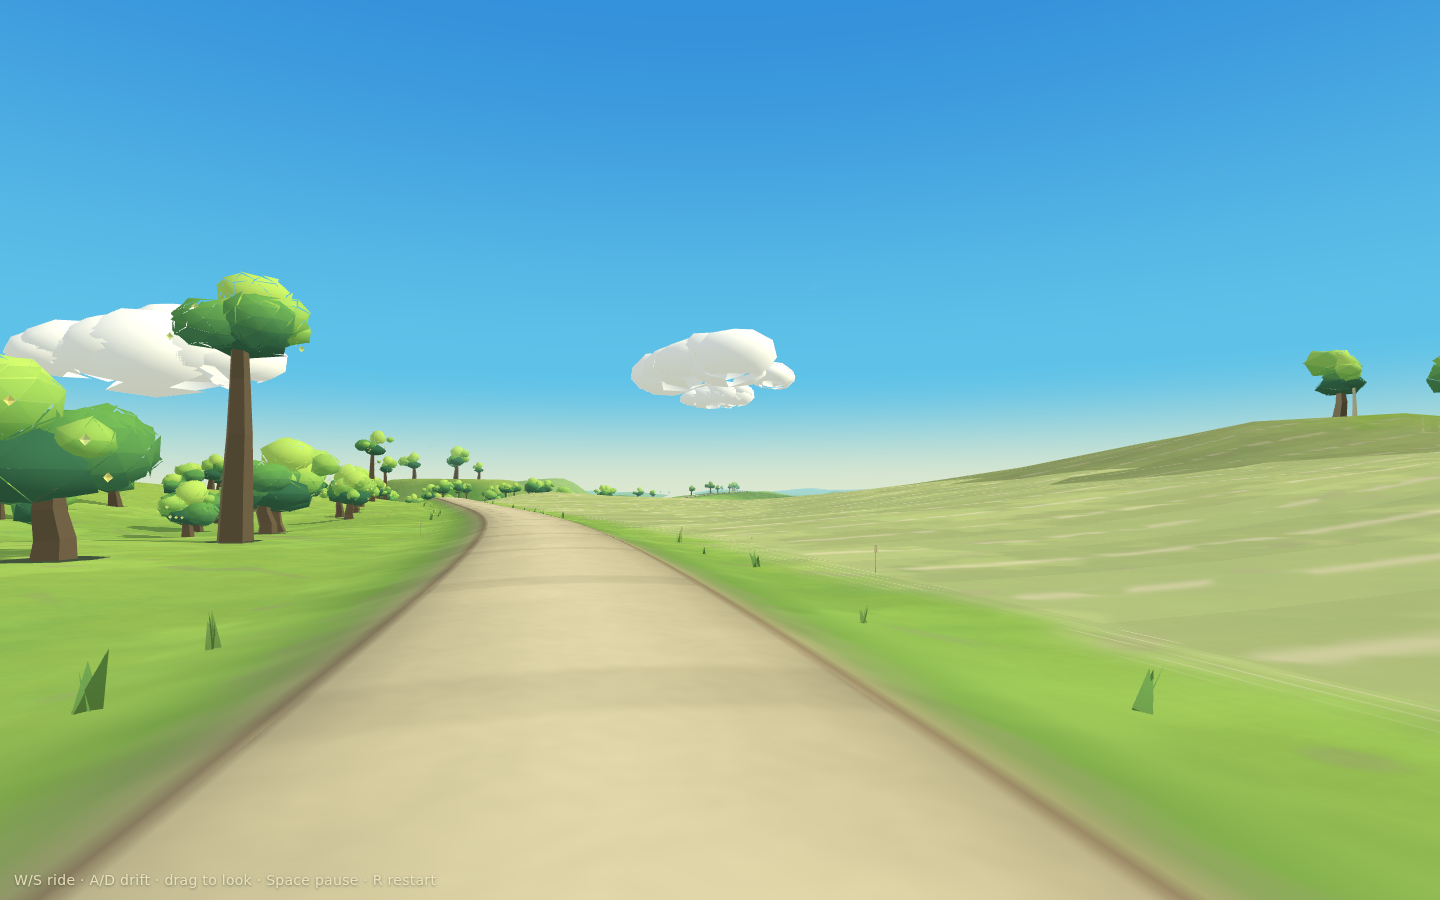
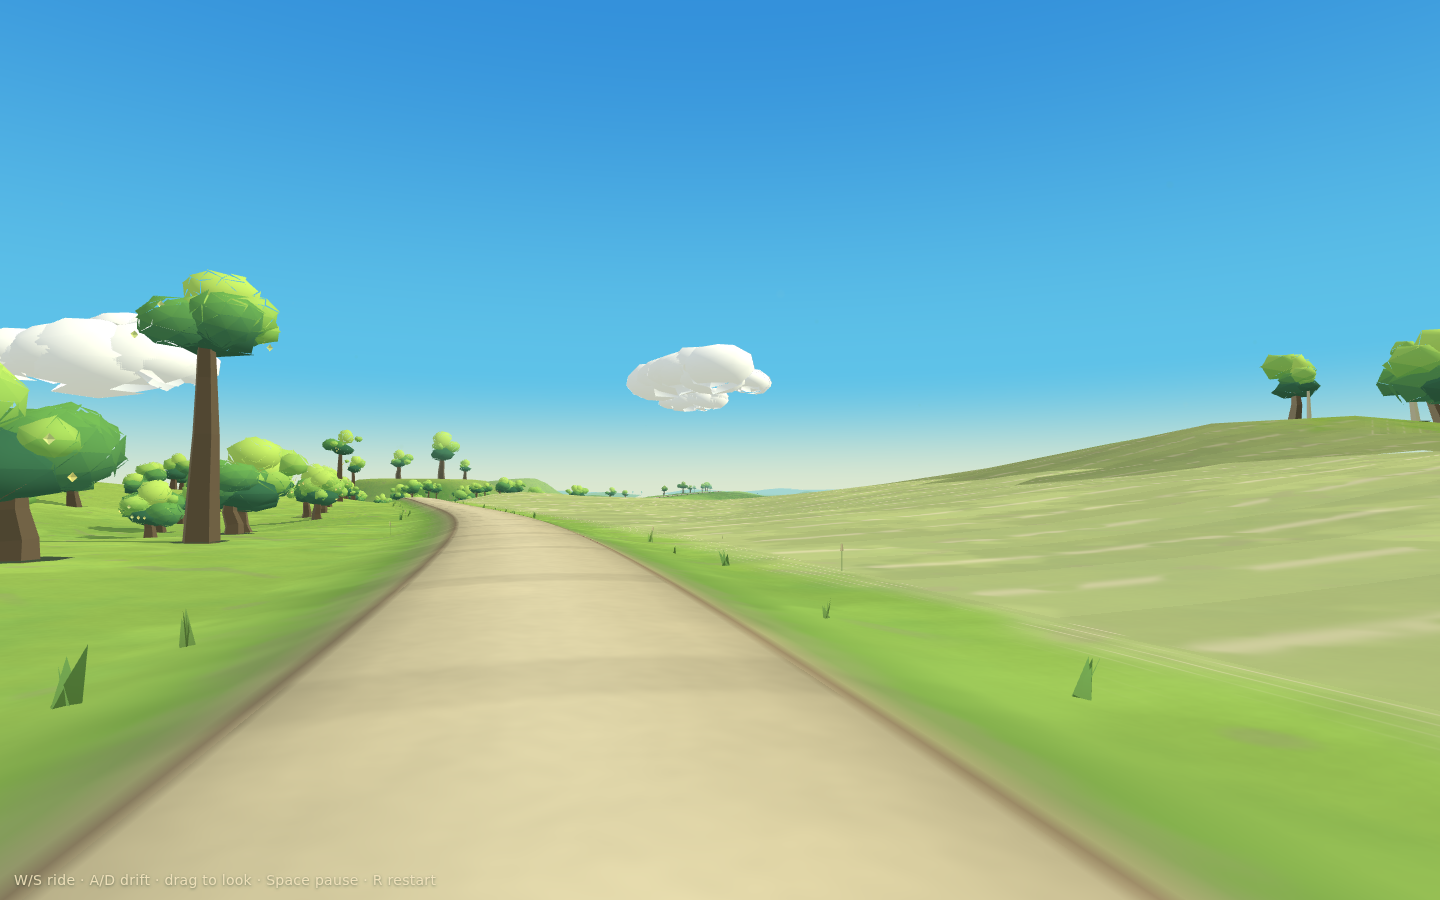
Summerglass Island 01: the sweep includes the reveal, and the crown is theirs
Three findings from the stills review, closed with measurements:

* The budget sweep now covers the bearings the island is composed around,
  not only the forward view: five yaws per station (0, +/-22 deg, +/-43 deg —
  the drag-look range the water-aperture reveal is built on), 108 stations,
  540 poses per tier. The maximum still lands on the FORWARD view at the
  combe climb, on the default seed and on three alternates — so the reveal's
  off-axis peak costs less than the forward corridor it trades away, and the
  bound got stronger without moving: 109,549 standard / 114,208 high against
  120,000. The concern was correct to raise and is now measured rather than
  assumed.
* Cloud bases carry a real shadow again (the keeper's own "one flat shadowed
  base") instead of near-white, and the near band starts farther out — the
  hard-edged white polygon meeting the gate crown in the threshold frame is
  gone with the depth cue restored, not painted over.
* Riding the reveal exposed two last Sisters defects the stills could not
  settle: volunteer trees stood on the dome's own flank (clearance was
  smaller than the dome's visible extent — the whole dome is now theirs),
  and the group stood on the FAR crown, where the near flank's perspective
  shrank forty-metre elders to hilltop shrubs. They now stand on the crown's
  near shoulder, stepped toward the mean sight-line. From the ride, the tall
  and taller elders are unmistakable; the short third separates at some
[…]

diff --git a/island-01.html b/island-01.html
@@ -759,12 +759,16 @@ const SISTERS=(()=>{
   const vm=Math.atan2(Math.sin(a1)+Math.sin(a2),Math.cos(a1)+Math.cos(a2));
   const across=vm+Math.PI*0.5;
   const towardPond=Math.atan2(POND.cx-KNOLL.x,POND.cz-KNOLL.z);
-  const SCL=[2.7,3.4,2.0], OFF=[-33,1,29];
+  const SCL=[2.7,3.5,2.0], OFF=[-33,1,29];
+  // the group stands on the crown's NEAR shoulder, stepped toward the mean
+  // sight-line: at reveal distance the dome's near flank dominates the frame,
+  // and elders on the far crown read smaller than their stature
+  const cx0=KNOLL.x+Math.sin(vm)*24, cz0=KNOLL.z+Math.cos(vm)*24;
   const out=[];
   for(let i=0;i<3;i++){
     const st=subStream('sister',i);
-    const x=KNOLL.x+Math.sin(across)*OFF[i]+st.r(-3,3);
-    const z=KNOLL.z+Math.cos(across)*OFF[i]+st.r(-3,3);
+    const x=cx0+Math.sin(across)*OFF[i]+st.r(-3,3);
+    const z=cz0+Math.cos(across)*OFF[i]+st.r(-3,3);
     out.push({x,z,fam:'windshaped',scl:SCL[i],lean:1,
       leanDir:towardPond+st.r(-0.15,0.15),                // combed down the combe
       s:KNOLL.g,enc:0.06,formation:'wind-sisters',fruit:false});
@@ -861,7 +865,7 @@ const GROVES=[];
       if(ri.s>PANELS[0].s0-20&&ri.s<PANELS[0].s1+20&&ri.u*(-S_LAND)>10&&ri.u*(-S_LAND)<PANELS[0].u1+14) continue;
       // the mown panel was cut this season: nothing grows tall in it
       { const pa=panelAt(x,z,ri); if(pa&&pa.P.mown&&pa.w>0.3) continue; }
-      if(Math.hypot(x-KNOLL.x,z-KNOLL.z)<84) continue;   // the Sisters share their skyline with nobody
+      if(Math.hypot(x-KNOLL.x,z-KNOLL.z)<KNOLL.r*1.38) continue;   // the whole dome is theirs: three, not "some"
       if(inSight(x,z,ri.s,ri.d,Math.sign(ri.u)||1)) continue;
       if(treeNear(x,z,2.0*scl+st.r(0.4,2.4))) continue;
       treeAdd({ x,z,fam,scl,lean:st.r(-1,1),leanDir:st.r(0,TAU),
@@ -2531,8 +2535,8 @@ const cloudMeshes=[];
       }
     }
   }
-  for(const bandCfg of [{n:6,rr:[950,1700],h:[330,400],span:[300,470],speed:0.46},
-                        {n:6,rr:[1700,3100],h:[430,530],span:[210,340],speed:0.24}]){
+  for(const bandCfg of [{n:6,rr:[1250,2000],h:[350,420],span:[300,470],speed:0.46},
+                        {n:6,rr:[2000,3300],h:[440,540],span:[210,340],speed:0.24}]){
     const B=Buf(); B.sway=0;
     for(let i=0;i<bandCfg.n;i++){
       const st=subStream('cloud',bandCfg.n,i);
@@ -2550,7 +2554,7 @@ const cloudMeshes=[];
         lobes.push({x:cx+dx*t*span*0.78+CLOUD.r(-10,10),y:baseY+up*span*0.2,z:cz+dz*t*span*0.78+CLOUD.r(-10,10),
           rx:r*CLOUD.r(0.95,1.15),ry:r*CLOUD.r(0.62,0.8),rz:r*CLOUD.r(0.95,1.15)});
       }
-      weldedPuff(B,lobes,st,col(0xFFFFFF),mixc(PAL.cloud,PAL.sky,0.16));
+      weldedPuff(B,lobes,st,col(0xFFFFFF),mixc(PAL.cloud,PAL.sky,0.32));
     }
     const m=new THREE.Mesh(bufGeo(B),cloudMat);
     m.matrixAutoUpdate=true; m.frustumCulled=false;
@@ -3452,7 +3456,12 @@ window.__SUMMERGLASS_TEST__={
   // this one is comparable against a fixed ceiling.
   budgetSweep(step){
     const st=step||24;
-    const out={maxTris:0, maxCalls:0, atG:0, stations:0, stepM:st, from:40, to:Math.floor(ROUTE_LEN-20)};
+    // five bearings per station: forward, and the drag-look range the island's
+    // own reveal is composed around. A bound that excludes the peak view is a
+    // bound on the wrong thing.
+    const YAWS=[0,0.38,-0.38,0.75,-0.75];
+    const out={maxTris:0, maxCalls:0, atG:0, atYawRad:0, stations:0, bearings:YAWS.length,
+      stepM:st, from:40, to:Math.floor(ROUTE_LEN-20)};
     const saveG=rider.g;
     for(let g=40; g<ROUTE_LEN-20; g+=st){
       let guard=0;
@@ -3461,15 +3470,17 @@ window.__SUMMERGLASS_TEST__={
       camera.position.set(fr.x+fr.lx*0.9, fr.y+EYE_H, fr.z+fr.lz*0.9);
       const la=frameAtG(Math.min(g+30,ROUTE_LEN-1));
       const pitch=clamp(Math.atan2(la.y-fr.y,30)*0.42+PITCH_BIAS,-0.55,0.5);
-      const yaw=Math.atan2(-fr.tx,-fr.tz);
-      camera.quaternion.setFromEuler(new THREE.Euler(pitch,yaw,0,'YXZ'));
-      camera.updateMatrixWorld();
-      refreshFrustum(camera);
+      const yaw0=Math.atan2(-fr.tx,-fr.tz);
       const isl=islandLocalOf(g);
-      const c=countIsland(isl?isl.copy:0);
+      for(const dy of YAWS){
+        camera.quaternion.setFromEuler(new THREE.Euler(pitch,yaw0+dy,0,'YXZ'));
+        camera.updateMatrixWorld();
+        refreshFrustum(camera);
+        const c=countIsland(isl?isl.copy:0);
+        if(c.tris>out.maxTris){ out.maxTris=c.tris; out.atG=Math.round(g); out.atYawRad=dy; }
+        out.maxCalls=Math.max(out.maxCalls,c.calls);
+      }
       out.stations++;
-      if(c.tris>out.maxTris){ out.maxTris=c.tris; out.atG=Math.round(g); }
-      out.maxCalls=Math.max(out.maxCalls,c.calls);
     }
     let guard=0;
     while(updateResidency(saveG,4)>0&&guard++<60){}
